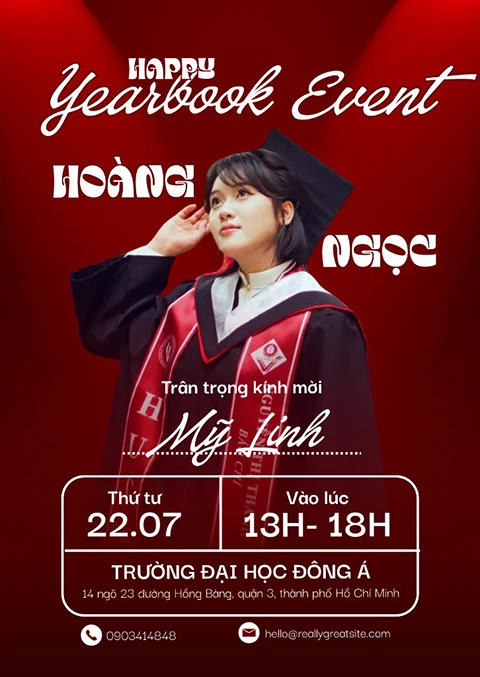
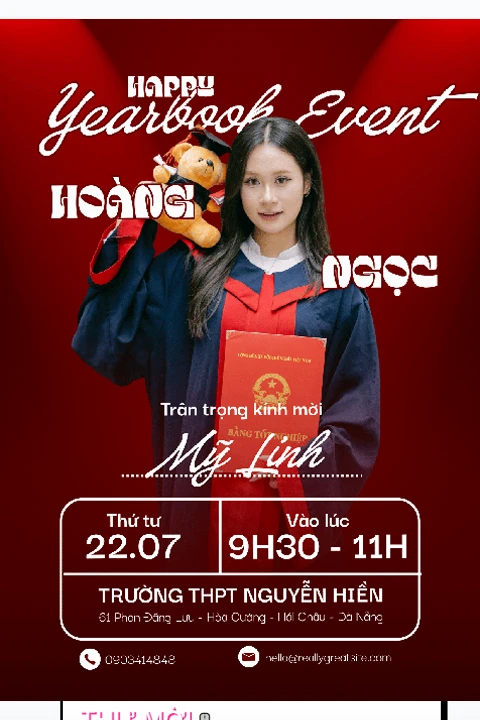
update image

diff --git a/src/data/templates.ts b/src/data/templates.ts
@@ -25,7 +25,7 @@ export const TEMPLATES: Template[] = [
     category: 'thanh-xuan',
     categoryName: 'Sổ Lưu Bút Thanh Xuân',
     description: 'Thiết kế cuốn sổ lưu bút tuổi học trò độc đáo: bìa sổ pastel chạm mở lật trang, giấy kẻ ô, washi tape dán ảnh polaroid, checklist và lưu bút.',
-    previewImage: '/templates/scrapbook.jpg',
+    previewImage: '/templates/scrapbook.webp',
     badge: 'Mẫu Sổ Lưu Bút Hot',
     defaultColors: {
       primary: '#D6BCFA',
@@ -43,7 +43,7 @@ export const TEMPLATES: Template[] = [
     category: 'thanh-xuan',
     categoryName: 'Cuộn Phim Hoài Niệm',
     description: 'Phong cách cuộn phim 35mm điện ảnh hoài niệm, vé xem phim vintage có cuống vé rời, dải phim timeline và bảng The End hoài niệm.',
-    previewImage: '/templates/vintage-film.jpg',
+    previewImage: '/templates/vintage-film.webp',
     badge: 'Mẫu Điện Ảnh Mới',
     defaultColors: {
       primary: '#382113',
@@ -61,7 +61,7 @@ export const TEMPLATES: Template[] = [
     category: 'thanh-xuan',
     categoryName: 'Cyber Y2K 2030',
     description: 'Phong cách 3D Cyber Futuristic & Y2K Neo-Pop: thẻ học sinh 3D trong suốt, cửa sổ hệ điều hành Retro OS, pixel art icon và tone màu neon sống động.',
-    previewImage: '/templates/cyber-2030.jpg',
+    previewImage: '/templates/cyber-2030.webp',
     badge: 'Mẫu 3D Futuristic Mới',
     defaultColors: {
       primary: '#FF2E93',
